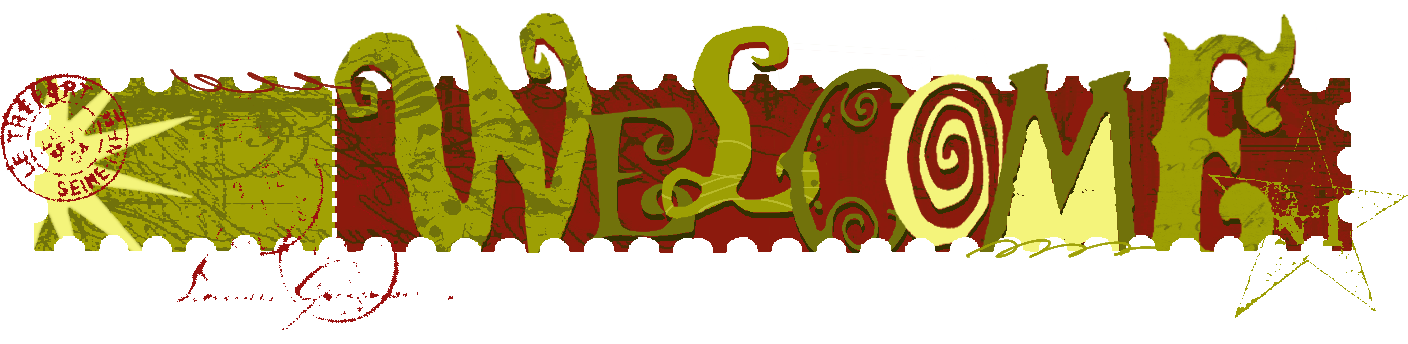
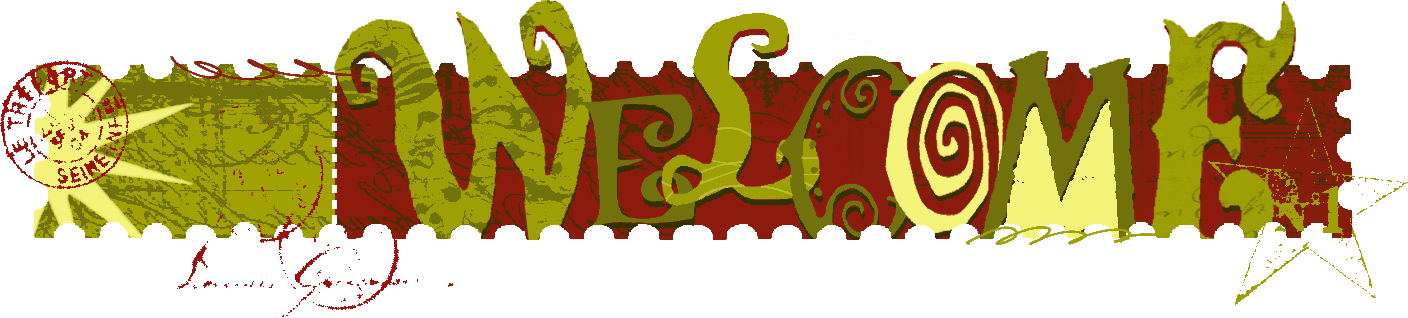
5656

diff --git a/index.html b/index.html
@@ -2,7 +2,8 @@
 <html lang="en">
 <head>
 <meta charset="utf-8">
-<title>Untitled Page</title>
+<title>homepage</title>
+<link href="16.png" rel="icon" sizes="16x16" type="image/png">
 <link href="ve113vwebpage.css" rel="stylesheet">
 <link href="index.css" rel="stylesheet">
 </head>
@@ -132,39 +133,37 @@
 <a class="ui-button ui-corner-all" id="ThemeableButton6" href="" style="width:100%;height:100%;">  GUEST BOOK</a></div>
 <div id="wb_Image12" style="position:absolute;left:19px;top:509px;width:29px;height:25px;z-index:18;">
 <img src="images/时间轴 10003.png" id="Image12" alt=""></div>
-<div id="wb_Image20" style="position:absolute;left:486px;top:0px;width:1408px;height:344px;z-index:19;">
-<img src="images/stamp.png" id="Image20" alt=""></div>
-<div id="wb_ThemeableButton7" style="position:absolute;left:124px;top:569px;width:201px;height:61px;z-index:20;">
+<div id="wb_ThemeableButton7" style="position:absolute;left:124px;top:569px;width:201px;height:61px;z-index:19;">
 <a class="ui-button ui-corner-all" id="ThemeableButton7" href="" style="width:100%;height:100%;">    SITE MAP</a></div>
-<div id="wb_Image13" style="position:absolute;left:160px;top:584px;width:31px;height:27px;z-index:21;">
+<div id="wb_Image13" style="position:absolute;left:160px;top:584px;width:31px;height:27px;z-index:20;">
 <img src="images/时间轴 10006.png" id="Image13" alt=""></div>
-<div id="wb_Image15" style="position:absolute;left:1536px;top:0px;width:382px;height:246px;z-index:22;">
+<div id="wb_Image15" style="position:absolute;left:1536px;top:0px;width:382px;height:246px;z-index:21;">
 <img src="images/插画10.gifphone.gif" id="Image15" alt=""></div>
-<div id="wb_Image16" style="position:absolute;left:203px;top:630px;width:236px;height:221px;z-index:23;">
+<div id="wb_Image16" style="position:absolute;left:203px;top:630px;width:236px;height:221px;z-index:22;">
 <img src="images/pin1.png" id="Image16" alt=""></div>
-<div id="wb_Image17" style="position:absolute;left:0px;top:672px;width:238px;height:207px;z-index:24;">
+<div id="wb_Image17" style="position:absolute;left:0px;top:672px;width:238px;height:207px;z-index:23;">
 <img src="images/pin2.png" id="Image17" alt=""></div>
-<div id="wb_Image14" style="position:absolute;left:293px;top:730px;width:353px;height:363px;z-index:25;">
+<div id="wb_Image14" style="position:absolute;left:293px;top:730px;width:353px;height:363px;z-index:24;">
 <img src="images/wa.png" id="Image14" alt=""></div>
-<div id="wb_Heading1" style="position:absolute;left:137px;top:318px;width:169px;height:26px;z-index:26;">
+<div id="wb_Heading1" style="position:absolute;left:137px;top:318px;width:169px;height:26px;z-index:25;">
 <h1 id="Heading1">*MAIN PAGES*</h1></div>
-<div id="wb_Image18" style="position:absolute;left:382px;top:0px;width:200px;height:156px;z-index:27;">
+<div id="wb_Image18" style="position:absolute;left:382px;top:0px;width:200px;height:156px;z-index:26;">
 <img src="images/STAR.png" id="Image18" alt=""></div>
-<div id="wb_Image19" style="position:absolute;left:1778px;top:758px;width:200px;height:156px;z-index:28;">
+<div id="wb_Image19" style="position:absolute;left:1778px;top:758px;width:200px;height:156px;z-index:27;">
 <img src="images/STAR.png" id="Image19" alt=""></div>
-<div id="wb_Heading3" style="position:absolute;left:85px;top:683px;width:145px;height:42px;z-index:29;">
+<div id="wb_Heading3" style="position:absolute;left:85px;top:683px;width:145px;height:42px;z-index:28;">
 <h1 id="Heading3">DOODLE</h1></div>
-<div id="wb_Heading2" style="position:absolute;left:41px;top:656px;width:145px;height:42px;z-index:30;">
+<div id="wb_Heading2" style="position:absolute;left:41px;top:656px;width:145px;height:42px;z-index:29;">
 <h1 id="Heading2">RANDOM</h1></div>
-<div id="wb_Heading4" style="position:absolute;left:191px;top:630px;width:145px;height:42px;z-index:31;">
+<div id="wb_Heading4" style="position:absolute;left:191px;top:630px;width:145px;height:42px;z-index:30;">
 <h1 id="Heading4">NEW</h1></div>
-<div id="wb_Heading5" style="position:absolute;left:230px;top:658px;width:145px;height:42px;z-index:32;">
+<div id="wb_Heading5" style="position:absolute;left:230px;top:658px;width:145px;height:42px;z-index:31;">
 <h1 id="Heading5">PAGES!</h1></div>
-<div id="wb_Heading6" style="position:absolute;left:451px;top:10px;width:196px;height:42px;z-index:33;">
+<div id="wb_Heading6" style="position:absolute;left:451px;top:10px;width:196px;height:42px;z-index:32;">
 <h1 id="Heading6">HOMEPAGE</h1></div>
 
 <!-- 鼠标 -->
-<div id="Html3" style="position:absolute;left:1979px;top:611px;width:75px;height:61px;z-index:35">
+<div id="Html3" style="position:absolute;left:1979px;top:611px;width:75px;height:61px;z-index:34">
 <!-- 自定义图片鼠标指针 -->
 <script>
 (function() {
@@ -274,12 +273,10 @@
 })();
 </script></div>
 
-<div id="wb_Heading7" style="position:absolute;left:520px;top:310px;width:621px;height:142px;z-index:37;">
-<h1 id="Heading7">你好呀，我的名字是VE113V</h1></div>
 
 
 <!-- 随机图片 -->
-<div id="Html7" style="position:absolute;left:20px;top:698px;width:186px;height:148px;z-index:40">
+<div id="Html7" style="position:absolute;left:20px;top:698px;width:186px;height:148px;z-index:38">
 
 <div id="random-bg" style="width:100%; height:100%; background-size:contain; background-position:center; background-repeat:no-repeat; margin:0; padding:0; cursor:pointer;"></div>
 
@@ -294,7 +291,119 @@
   // 随机抽取一张图作为背景
   document.getElementById('random-bg').style.backgroundImage = "url('" + imgs[Math.floor(Math.random() * imgs.length)] + "')";
 </script></div>
-<div style="z-index:41">
+<div id="wb_Image20" style="position:absolute;left:486px;top:3px;width:1408px;height:318px;z-index:39;">
+<img src="images/stamp.png" id="Image20" alt=""></div>
+<div id="wb_Heading7" style="position:absolute;left:518px;top:256px;width:1318px;height:142px;z-index:40;">
+<h1 id="Heading7">你好呀，我是VE113V，这是我的个人网站呀，我基本在用这里放置我的个人作品和各种奇怪的东西，你也可以把这里当作我的主要活动网站呀 :><br><br>这个网站目前还在施工状态，我计划年底完成主要网页的制作，这样这个网页就算真正运作起来啦！</h1></div>
+<!-- PIN -->
+<div id="Html8" style="position:absolute;left:1557px;top:616px;width:181px;height:177px;z-index:41">
+
+<!-- 拖拽部件结构 -->
+<div id="pin-wrapper">
+  <div id="my-drag-pin">
+    
+    <div id="pin-inner">
+      <img id="pin-bg-img" class="pin-bg" src="images/movepin1.png" alt="pin">
+      <div class="pin-text">
+        <div>★做自我介绍网页</div>
+        <div>★睡大觉</div>
+        <div>★活着</div>
+        <div>★保持活着</div>
+      </div>
+    </div>
+    
+  </div>
+</div>
+
+<script>
+  (function() {
+    if (window.__pinDragInitialized) return;
+    window.__pinDragInitialized = true;
+
+    var pin = document.getElementById('my-drag-pin');
+    var bgImg = document.getElementById('pin-bg-img');
+    var isDragging = false;
+    var startX, startY;
+
+    function getPos(e) {
+      if (e.touches && e.touches.length > 0) {
+        return { x: e.touches[0].clientX, y: e.touches[0].clientY };
+      }
+      return { x: e.clientX, y: e.clientY };
+    }
+
+    function startDrag(e) {
+      var pos = getPos(e);
+      isDragging = true;
+
+      var rect = pin.getBoundingClientRect();
+      pin.style.position = 'fixed';
+      pin.style.width = rect.width + 'px';
+      pin.style.height = rect.height + 'px';
+      pin.style.left = rect.left + 'px';
+      pin.style.top = rect.top + 'px';
+
+      startX = pos.x - rect.left;
+      startY = pos.y - rect.top;
+
+      bgImg.src = 'images/movepin2.png';
+      pin.classList.add('dragging');
+      
+      if (e.cancelable) e.preventDefault();
+    }
+
+    /* ==========================================
+       只修改了这个 doDrag 函数，加了边界限制
+       ========================================== */
+    function doDrag(e) {
+      if (!isDragging) return;
+      var pos = getPos(e);
+
+      // 计算出原本想要移动到的位置
+      var newLeft = pos.x - startX;
+      var newTop = pos.y - startY;
+
+      // 获取屏幕尺寸和当前拖拽元素的尺寸
+      var winWidth = window.innerWidth;
+      var winHeight = window.innerHeight;
+      var pinWidth = pin.offsetWidth;
+      var pinHeight = pin.offsetHeight;
+
+      // 限制 left (不能小于0，不能大于 屏幕宽 - 元素宽)
+      var maxLeft = winWidth - pinWidth;
+      if (newLeft < 0) newLeft = 0;
+      if (newLeft > maxLeft) newLeft = maxLeft;
+
+      // 限制 top (不能小于0，不能大于 屏幕高 - 元素高)
+      var maxTop = winHeight - pinHeight;
+      if (newTop < 0) newTop = 0;
+      if (newTop > maxTop) newTop = maxTop;
+
+      // 应用限制后的位置
+      pin.style.left = newLeft + 'px';
+      pin.style.top = newTop + 'px';
+
+      if (e.cancelable) e.preventDefault();
+    }
+
+    function stopDrag() {
+      if (!isDragging) return;
+      isDragging = false;
+      bgImg.src = 'images/movepin1.png';
+      pin.classList.remove('dragging');
+    }
+
+    pin.addEventListener('mousedown', startDrag);
+    document.addEventListener('mousemove', doDrag);
+    document.addEventListener('mouseup', stopDrag);
+
+    pin.addEventListener('touchstart', startDrag, { passive: false });
+    document.addEventListener('touchmove', doDrag, { passive: false });
+    document.addEventListener('touchend', stopDrag);
+    document.addEventListener('touchcancel', stopDrag);
+  })();
+</script></div>
+<div style="z-index:42">
 <script>
 var disabled_message = "";
 document.oncontextmenu = function() 

diff --git a/index.css b/index.css
@@ -669,22 +669,6 @@ body
    width: 100%;
    height: 100%;
 }
-#wb_Image20
-{
-   vertical-align: top;
-}
-#Image20
-{
-   border: 0px solid #000000;
-   border-radius: 0px;
-   box-sizing: border-box;
-   padding: 0;
-   margin: 0;
-   left: 0;
-   top: 0;
-   width: 100%;
-   height: 100%;
-}
 #ThemeableButton7
 {
    font-family: Jokerman;
@@ -1022,6 +1006,40 @@ body
    text-transform: none;
    text-shadow: 2px 2px 0px rgba(154,13,16,1.00);
 }
+/* =========================================
+   全站强制禁止选中（终极版）
+   ========================================= */
+html, body, * {
+  -webkit-user-select: none !important;
+  -moz-user-select: none !important;
+  -ms-user-select: none !important;
+  user-select: none !important;
+  -webkit-tap-highlight-color: transparent !important;
+}
+
+/* 注意：如果你有输入框，必须允许它们被选中，否则无法打字 */
+input, textarea {
+  -webkit-user-select: text !important;
+  -moz-user-select: text !important;
+  -ms-user-select: text !important;
+  user-select: text !important;
+}
+#wb_Image20
+{
+   vertical-align: top;
+}
+#Image20
+{
+   border: 0px solid #000000;
+   border-radius: 0px;
+   box-sizing: border-box;
+   padding: 0;
+   margin: 0;
+   left: 0;
+   top: 0;
+   width: 100%;
+   height: 100%;
+}
 #wb_Heading7
 {
    background-color: transparent;
@@ -1042,24 +1060,7 @@ body
    margin: 0;
    text-align: left;
    text-transform: none;
-}
-/* =========================================
-   全站强制禁止选中（终极版）
-   ========================================= */
-html, body, * {
-  -webkit-user-select: none !important;
-  -moz-user-select: none !important;
-  -ms-user-select: none !important;
-  user-select: none !important;
-  -webkit-tap-highlight-color: transparent !important;
-}
-
-/* 注意：如果你有输入框，必须允许它们被选中，否则无法打字 */
-input, textarea {
-  -webkit-user-select: text !important;
-  -moz-user-select: text !important;
-  -ms-user-select: text !important;
-  user-select: text !important;
+   text-shadow: 3px 3px 0px rgba(154,13,16,0.50);
 }
   /* 定义抖动动画 */
   @keyframes shake-anim {
@@ -1074,4 +1075,85 @@ input, textarea {
   /* 鼠标移上去触发动画 */
   #random-bg:hover {
     animation: shake-anim 0.4s ease-in-out;
+  }
+  #pin-wrapper {
+    width: 100%;
+    height: 100%;
+    position: relative;
+    display: flex;
+    justify-content: center;
+    align-items: center;
+  }
+
+  #my-drag-pin {
+    position: absolute;
+    width: 250px; 
+    height: 300px; 
+    
+    cursor: grab;
+    z-index: 99999;
+    user-select: none;
+    -webkit-user-select: none;
+  }
+
+  /* 内部容器负责摇晃 */
+  #pin-inner {
+    width: 100%;
+    height: 100%;
+    position: relative;
+    /* 旋转中心点：顶部中央 */
+    transform-origin: 50% 25px; 
+  }
+
+  /* ==========================================
+     【修改这里】完美的无缝循环钟摆动画
+     ========================================== */
+  @keyframes smooth-loop-swing {
+    0% { transform: rotate(-4deg); }   /* 左极限 */
+    50% { transform: rotate(4deg); }   /* 右极限 */
+    100% { transform: rotate(-4deg); } /* 回到左极限，完美衔接下一次循环 */
+  }
+
+  /* 
+    拖拽状态触发动画：
+    1. 1.5s 让摇晃更悠哉。
+    2. ease-in-out 让它在两边有“悬挂停顿”的物理感。
+    3. infinite 无限循环。
+  */
+  #my-drag-pin.dragging #pin-inner {
+    animation: smooth-loop-swing 1.5s ease-in-out infinite;
+  }
+
+  /* 底图 */
+  #my-drag-pin img.pin-bg {
+    width: 100%;
+    height: 100%;
+    display: block;
+    pointer-events: none;
+  }
+
+  /* --- 拖拽中（阴影） --- */
+  #my-drag-pin.dragging {
+    position: fixed; 
+    cursor: grabbing;
+    filter: drop-shadow(3px 3px 0px rgb(139, 27, 13));
+  }
+
+  /* 文字层 */
+  .pin-text {
+    position: absolute;
+    top: 87px; 
+    left: 45px; 
+    right: 20px;
+    
+    font-family: 'Uranus Pixel 11Px', monospace; 
+    color: rgb(139, 27, 13); 
+    font-size: 22px; 
+    line-height: 50px; 
+    text-align: left; 
+    pointer-events: none;
+  }
+
+  .pin-text div {
+    display: block;
   }
